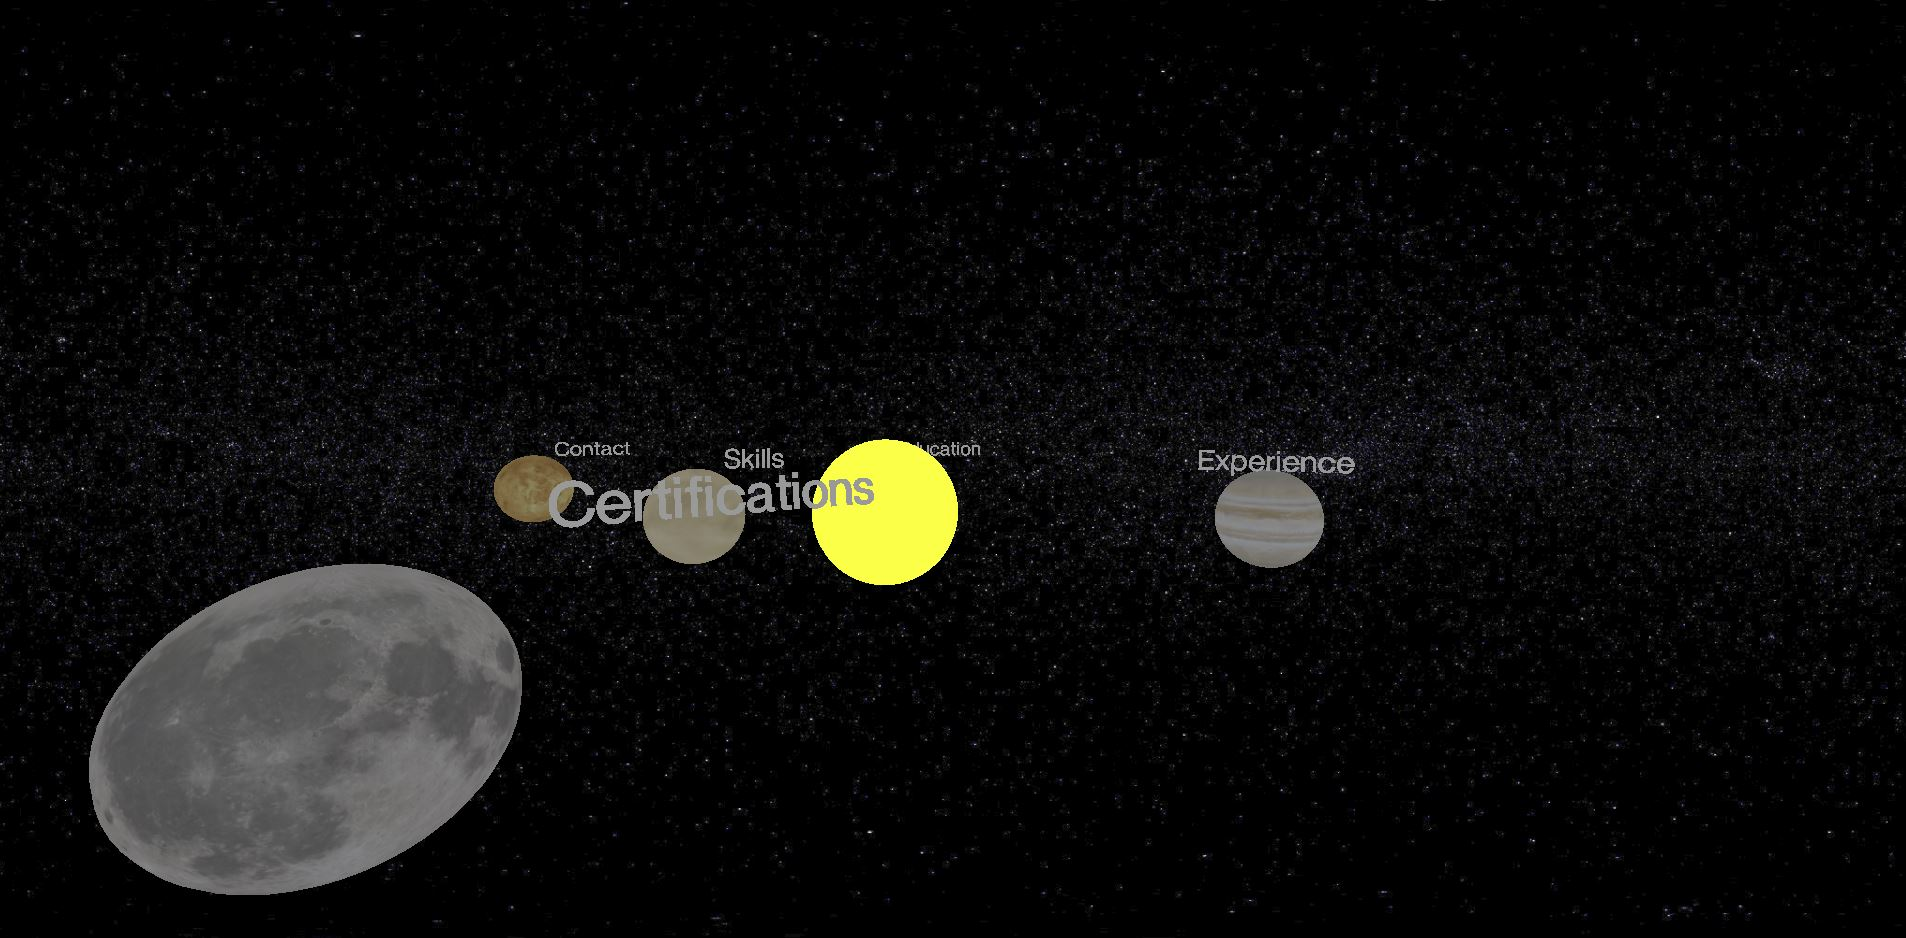
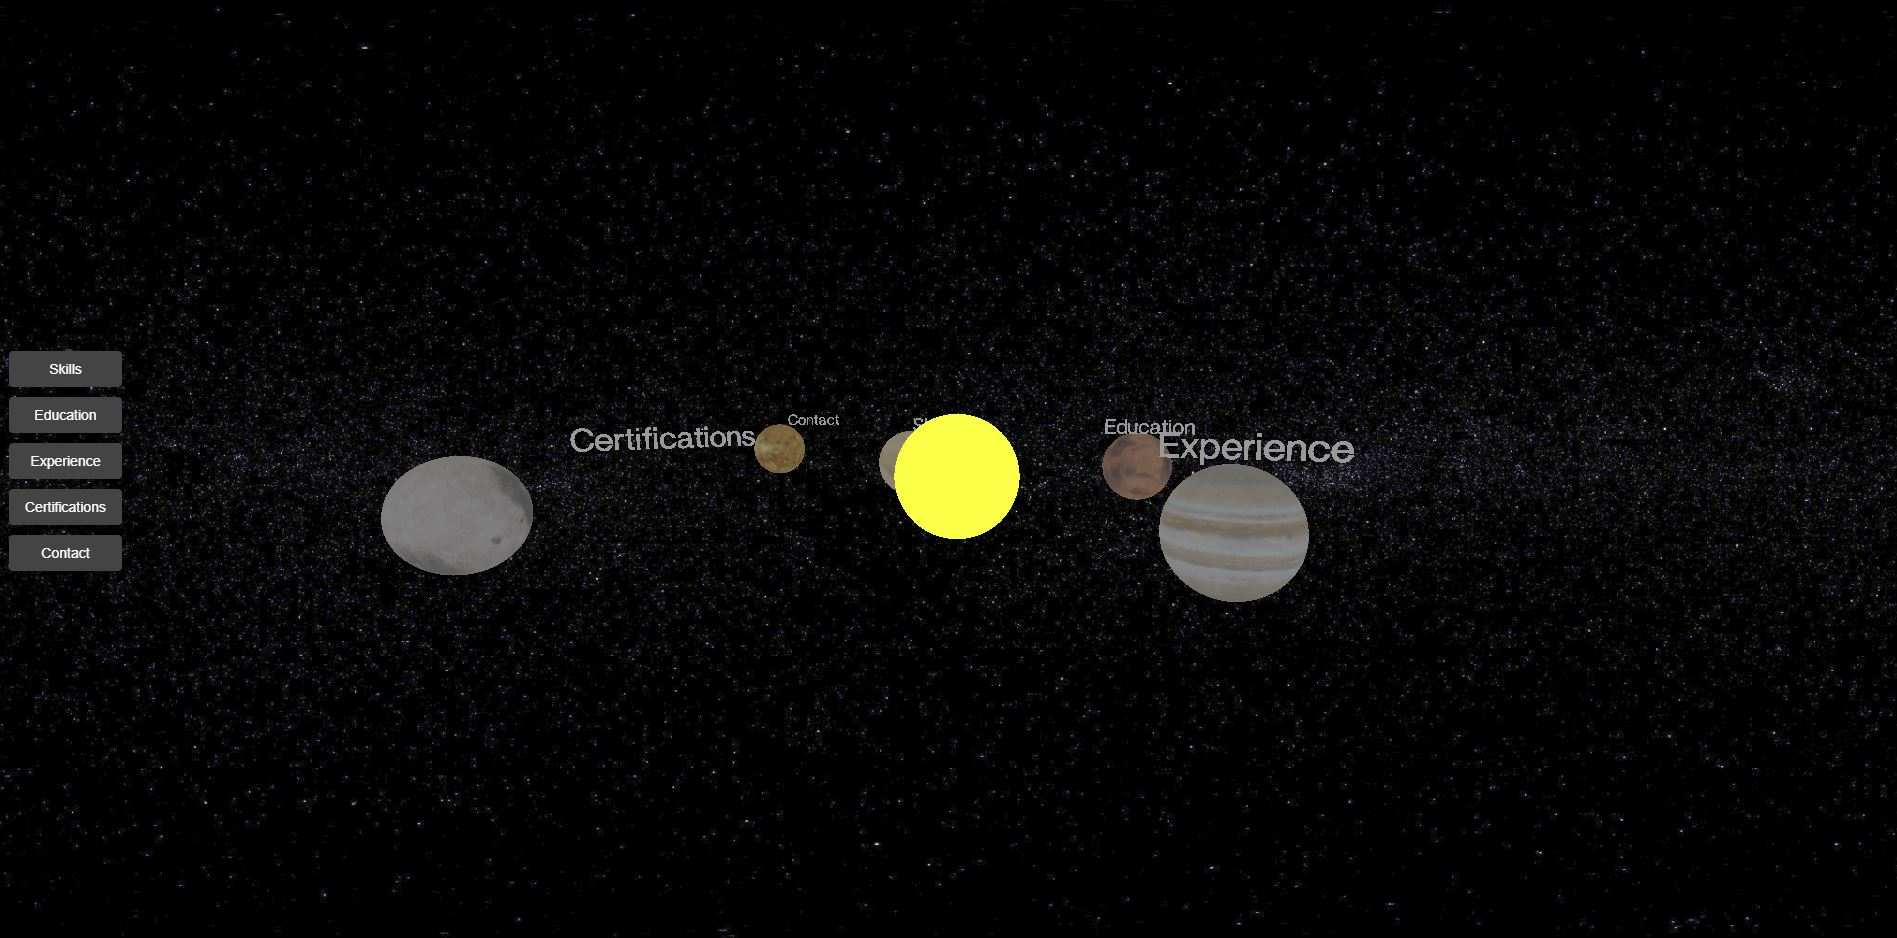
Read me update plus page screenshot

diff --git a/README.md b/README.md
@@ -1,50 +1,75 @@
 # 🌌 Three.js Interactive CV
 
-This project is a 3D, interactive curriculum vitae built using **Three.js** and **Vite**. It presents your skills, experience, education, certifications, and contact information as orbiting planets around a central sun in a space-themed environment.
+This is a 3D, interactive curriculum vitae built with **Three.js** and modular JavaScript. It creatively presents your background using a space-themed solar system, where each orbiting planet represents a section of your resume.
 
 ---
 
 ## 🚀 Features
 
-- 🪐 **Planet-based Navigation**: Each CV section is represented as a rotating textured planet.
-- 🛰 **Floating Labels**: Dynamic 3D text hovers above each planet, always facing the camera.
-- 🖱 **Click Interaction**: Clicking a planet opens a panel in front of the camera with details.
-- ❌ **Close Button**: A flat "X" button allows you to dismiss open panels.
-- 🌌 **Immersive Visuals**: Starfield background, rotating orbits, and polished textures.
-- 🧭 **Camera Control**: `OrbitControls` lets users explore the solar system-like CV.
+- 🧭 **React Sidebar Navigation**  
+  A React-powered sidebar allows users to click on resume sections to trigger the corresponding 3D planet and info panel.
+
+- 🪐 **Planet-Based Navigation**  
+  Planets represent resume sections: Skills, Education, Experience, Certifications, and Contact.
+
+- 🎯 **Raycast Interactions**  
+  Click planets to open smooth animated panels with detailed content.
+
+- 💫 **Floating Labels**  
+  Labels orbit with planets and always face the camera.
+
+- 🎛 **Animated Transitions**  
+  Clicking a planet brings it (and its label) forward next to the panel.
+
+- 🧲 **Camera Controls**  
+  Rotate, pan, and zoom using `OrbitControls`.
+
+- 🧪 **Unit Tests**  
+  Built-in Jest tests verify 3D scene structure.
+
+- 🧱 **Modular Codebase**  
+  The project is fully split into clean, testable modules (planets, labels, panels, interaction, animation).
+  
+  ---
+
+## 📝 TODO
+
+- 🧩 **Redux Implementation**  
+  Integrate Redux to manage application state, such as selected planet, active panel, and UI synchronization between React and the Three.js scene.
 
 ---
 
 ## 🛠 Technologies Used
 
-- [Three.js](https://threejs.org/) for 3D rendering
-- [Vite](https://vitejs.dev/) for fast module bundling and dev server
-- [OrbitControls](https://threejs.org/docs/#examples/en/controls/OrbitControls)
-- [TextGeometry](https://threejs.org/docs/#examples/en/geometries/TextGeometry)
-- [Jest](https://jestjs.io/) for testing (mocked Three.js + WebGL setup)
+- [Three.js](https://threejs.org/) – 3D engine  
+- [Vite](https://vitejs.dev/) – Build tool  
+- [Jest](https://jestjs.io/) – Testing  
+- [OrbitControls](https://threejs.org/docs/#examples/en/controls/OrbitControls) – User navigation  
+- [TextGeometry](https://threejs.org/docs/#examples/en/geometries/TextGeometry) – Dynamic 3D labels  
+- [CanvasTexture](https://threejs.org/docs/#api/en/textures/CanvasTexture) – Text panel rendering  
 
 ---
 
-## 📁 Folder Structure (Modular)
+## 📁 Folder Structure
 
 ```
 ├── public/
-│   └── textures/              # Background and planet surface textures
+│   └── textures/              # Background and planet textures
 ├── src/
 │   ├── main.js                # App entry point
 │   ├── animate.js             # Animation loop
-│   ├── style.css              # Canvas styling
+│   ├── style.css              # Canvas + body styling
 │   ├── interaction/
-│   │   └── onClickHandler.js  # Raycasting + interaction logic
+│   │   └── onClickHandler.js  # Raycasting + panel logic
 │   └── scene/
-│       ├── initScene.js       # Sets up camera, renderer, controls
-│       ├── addSun.js          # Adds central sun mesh
-│       ├── planets.js         # Creates orbiting planet meshes
-│       ├── labels.js          # Loads font & generates floating 3D text
-│       └── panels.js          # Info panel and close button creation
+│       ├── initScene.js       # Camera, renderer, controls
+│       ├── addSun.js          # Sun mesh
+│       ├── planets.js         # Creates planets + pivots
+│       ├── labels.js          # Floating text labels
+│       └── panels.js          # Text panel + close button
 ├── __tests__/
-│   └── createScene.test.js    # Unit tests for scene creation
-├── index.html                 # App shell
+│   └── createScene.test.js    # Jest unit tests
+├── index.html                 # Root HTML shell
 ├── package.json               # Dependencies & scripts
 └── README.md                  # You're here
 ```
@@ -53,14 +78,17 @@ This project is a 3D, interactive curriculum vitae built using **Three.js** and 
 
 ## 🧪 Testing
 
-Tests are written using Jest and focus on verifying:
-- Scene, camera, and renderer instantiation
-- Mocked WebGL context and DOM elements
-- Module structure through `createScene.js`
+Run the unit tests using:
+
+```bash
+npm test
+```
+
+Includes basic Three.js component tests (`Scene`, `Camera`, `Renderer`) and mocking logic.
 
 ---
 
-## ⚙ Setup Instructions
+## ▶ Getting Started
 
 ### 1. Install dependencies
 
@@ -68,36 +96,27 @@ Tests are written using Jest and focus on verifying:
 npm install
 ```
 
-### 2. Start the dev server
+### 2. Start development server
 
 ```bash
 npm run dev
 ```
 
-> This uses Vite, and runs on `http://localhost:5173`
-
-### 3. Run tests
+### 3. Build for production
 
 ```bash
-npm test
+npm run build
 ```
 
 ---
 
-## 🧠 Motivation
+## 📸 Preview
 
-This project was built as a creative and interactive frontend portfolio. It demonstrates spatial UI, Three.js skills, modular JavaScript architecture, and modern tooling — ideal for roles in immersive or interactive development.
-
----
-
-## 📸 Screenshot
-
-![screenshot of 3D planets](docs/page_screenshot.JPG)
+![screenshot of 3D CV](docs/page_screenshot.JPG)
 
 ---
 
-## ✍ Author
+## 📬 Author
 
 **Dimitrios Zafeiropoulos**  
-📧 dzaf96@gmail.com  
-🔗 [LinkedIn](https://linkedin.com/in/dimitris-zafeiropoulos)
+[LinkedIn](https://linkedin.com/in/dimitris-zafeiropoulos) • dzaf96@gmail.com
